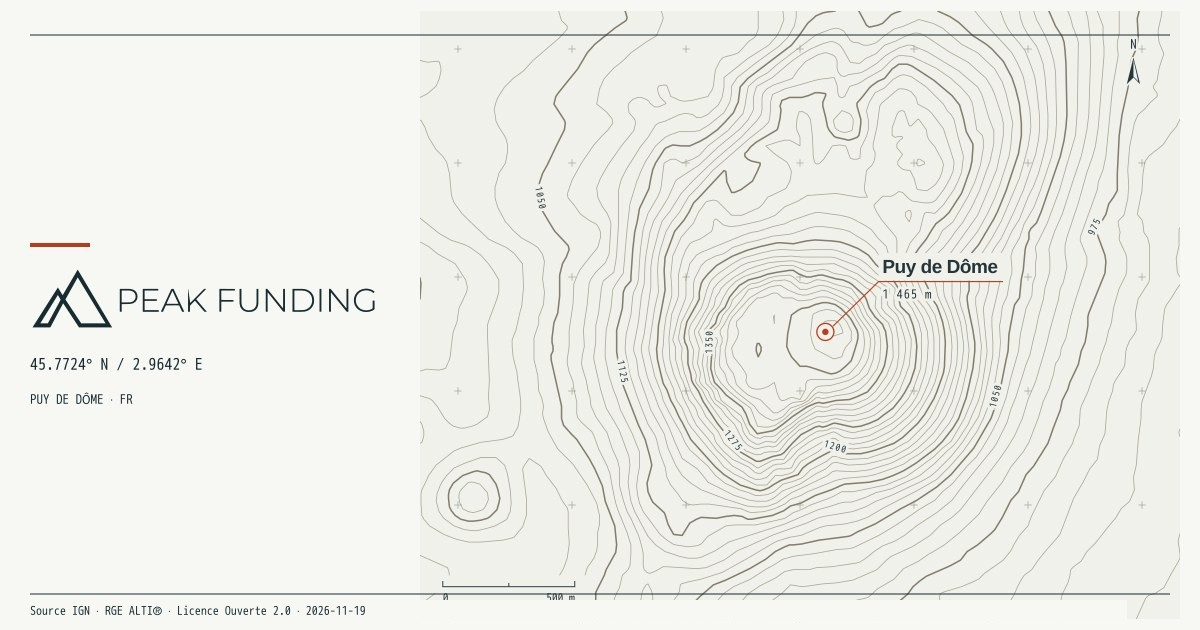
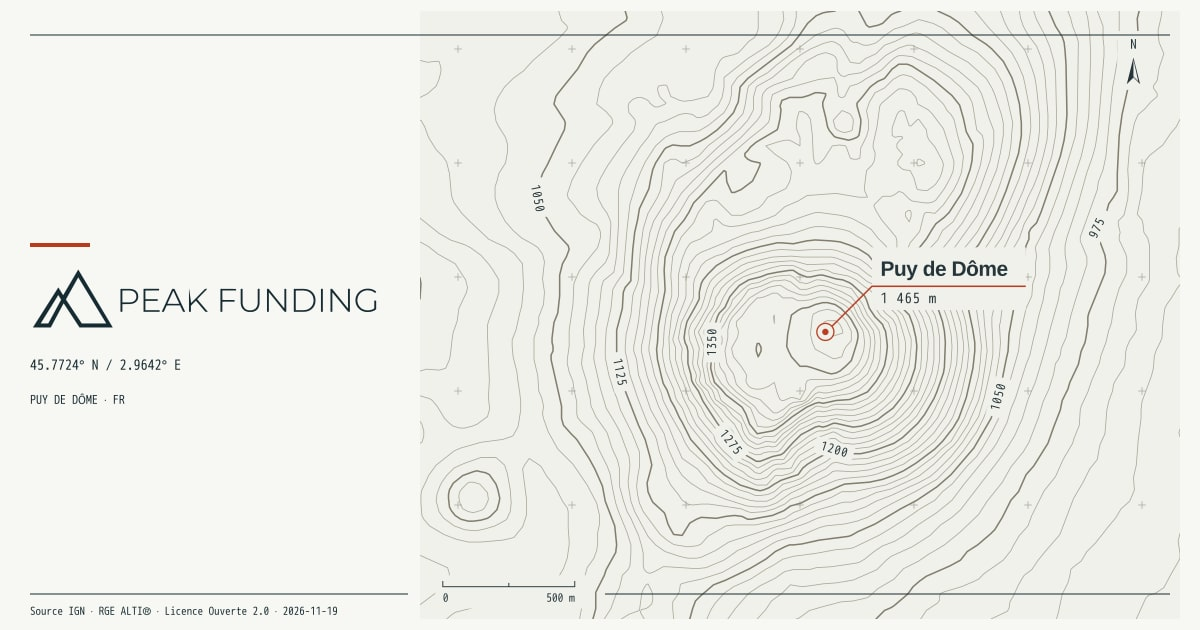
Tracer la coupe du puy de Dôme et protéger ses cartouches

diff --git a/scripts/relief/terrain.py b/scripts/relief/terrain.py
@@ -128,6 +128,41 @@ def simplify(points, tolerance=.38):
     return simplify(points[:index+1], tolerance)[:-1] + simplify(points[index:], tolerance)
 
 
+def outside_cartouches(line, boxes):
+    """Cut out label rectangles before exposing the animated path as an SVG fragment."""
+    commands = []
+    last = None
+    for (ax, ay), (bx, by) in zip(line, line[1:]):
+        dx, dy = bx - ax, by - ay
+        visible = [(0., 1.)]
+        for left, top, right, bottom in boxes:
+            lo, hi = 0., 1.
+            for origin, delta, low, high in ((ax, dx, left, right), (ay, dy, top, bottom)):
+                if delta == 0:
+                    if not low <= origin <= high:
+                        hi = -1.
+                    continue
+                t0, t1 = sorted(((low - origin) / delta, (high - origin) / delta))
+                lo, hi = max(lo, t0), min(hi, t1)
+            if hi <= lo:
+                continue
+            pieces = []
+            for first, final in visible:
+                if first < lo:
+                    pieces.append((first, min(lo, final)))
+                if final > hi:
+                    pieces.append((max(first, hi), final))
+            visible = pieces
+        for first, final in visible:
+            begin = (round(ax + first * dx, 1), round(ay + first * dy, 1))
+            end = (round(ax + final * dx, 1), round(ay + final * dy, 1))
+            if last != begin:
+                commands.append(f'M{begin[0]:g},{begin[1]:g}')
+            commands.append(f'{end[0]:g},{end[1]:g}')
+            last = end
+    return ' '.join(commands)
+
+
 def render(data):
     grid = data['z_m']
     paper = '#f0f1eb'
@@ -135,6 +170,10 @@ def render(data):
     signal = '#bb3e22'
     paths, labels = [], []
     principal = None
+    summit_x = -WEST * WIDTH / (STEP * (COLS - 1))
+    summit_y = NORTH * HEIGHT / (STEP * (ROWS - 1))
+    reserved = [(summit_x + 48, summit_y - 92, summit_x + 220, summit_y - 20),
+                (724, 14, 777, 88), (15, 585, 190, 634)]
     occupied = [(490, 304), (532, 284), (600, 270), (73, 592), (750, 65)]
     for level in range(750, 1501, INTERVAL):
         major = level % 75 == 0
@@ -147,7 +186,7 @@ def render(data):
             if line[0] == line[-1]:
                 d += 'Z'
             if level == 1200 and principal is None:
-                principal = d
+                principal = line
             paths.append(f'<path d="{d}" stroke="{("#827d6c" if major else "#aca898")}" stroke-width="{1.6 if major else .85}"/>')
             if major and len(line) > 22:
                 for i in range(len(line)//3, len(line)-2):
@@ -158,31 +197,39 @@ def render(data):
                         continue
                     angle = math.degrees(math.atan2(line[i+1][1]-line[i-1][1], line[i+1][0]-line[i-1][0]))
                     angle = (angle + 90) % 180 - 90
-                    labels.append(f'<text transform="translate({x:.1f} {y:.1f}) rotate({angle:.0f})" text-anchor="middle">{level}</text>')
+                    # Pad the animated path's cutout for these rotated, opaque cartouches.
+                    radians = math.radians(angle)
+                    rx = 25 * abs(math.cos(radians)) + 12 * abs(math.sin(radians))
+                    ry = 25 * abs(math.sin(radians)) + 12 * abs(math.cos(radians))
+                    reserved.append((x-rx, y-ry, x+rx, y+ry))
+                    labels.append(f'<g transform="translate({x:.1f} {y:.1f}) rotate({angle:.0f})">'
+                                  f'<rect x="-21" y="-9" width="42" height="18" fill="{paper}"/>'
+                                  f'<text text-anchor="middle" y="4">{level}</text></g>')
                     occupied.append((x, y))
                     break
     scale_px = 500 * WIDTH / (STEP * (COLS - 1))
-    summit_x = -WEST * WIDTH / (STEP * (COLS - 1))
-    summit_y = NORTH * HEIGHT / (STEP * (ROWS - 1))
     crosses = ''.join(f'M{x-4} {y}h8m-4 -4v8' for x in range(40,800,120) for y in range(40,640,120))
     lines = ''.join(paths)
     figures = ''.join(labels)
+    principal_path = outside_cartouches(principal, reserved)
+    contours = f'<g id="courbes-terrain" fill="none" stroke-linejoin="round" stroke-linecap="round">{lines}</g>'
     ASSET.write_text(f"""<svg xmlns="http://www.w3.org/2000/svg" viewBox="0 0 800 640">
 <title>Puy de Dôme · Chaîne des Puys</title>
 <desc>Courbes de niveau tous les 15 mètres. Source IGN, RGE ALTI®, extraction du {data['retrieved']}, Licence Ouverte 2.0. https://www.data.gouv.fr/datasets/rge-alti-r</desc>
-<defs><path id="courbe-repere" pathLength="1" d="{principal}"/></defs>
+<defs><path id="courbe-repere" pathLength="1" d="{principal_path}"/></defs>
 <rect width="800" height="640" fill="{paper}"/>
-<g fill="none" stroke-linejoin="round" stroke-linecap="round">{lines}</g>
+{contours}
 <path d="{crosses}" stroke="#858a81" stroke-width=".8" opacity=".7"/>
-<g fill="{ink}" stroke="{paper}" paint-order="stroke" stroke-width="6" font-family="monospace" font-size="10" letter-spacing="1.3">{figures}</g>
+<g fill="{ink}" font-family="monospace" font-size="13" letter-spacing="1">{figures}</g>
 <g transform="translate({summit_x:.1f} {summit_y:.1f})">
 <circle r="9" fill="{paper}" stroke="{signal}" stroke-width="1.4"/><circle r="3.4" fill="{signal}"/>
-<path d="M8 -6l48 -47h131" fill="none" stroke="{signal}" stroke-width="1.2"/>
-<rect x="56" y="-83" width="132" height="29" fill="{paper}"/>
-<text x="60" y="-62" font-family="Arial,sans-serif" font-size="20" font-weight="bold" letter-spacing="-.5" fill="{ink}">Puy de Dôme</text>
-<text x="60" y="-35" fill="{ink}" font-family="monospace" font-size="13" letter-spacing="1" stroke="{paper}" stroke-width="6" paint-order="stroke">1 465 m</text>
+<rect x="49" y="-89" width="162" height="66" fill="{paper}"/>
+<path d="M7 -6l42 -42h162" fill="none" stroke="{signal}" stroke-width="1.6"/>
+<text x="58" y="-59" font-family="Arial,sans-serif" font-size="22" font-weight="bold" letter-spacing="-.5" fill="{ink}">Puy de Dôme</text>
+<text x="58" y="-30" fill="{ink}" font-family="monospace" font-size="15" letter-spacing="1">1 465 m</text>
 </g>
-<g transform="translate(751 30)" fill="{ink}" stroke="{paper}" paint-order="stroke" stroke-width="4">
+<g transform="translate(751 30)" fill="{ink}">
+<rect x="-17" y="-9" width="34" height="62" fill="{paper}"/>
 <text x="0" y="10" text-anchor="middle" font-family="monospace" font-size="14">N</text>
 <path d="M0 19l7 28 -7 -7 -7 7z"/><path d="M0 21v18l5 5z" fill="{paper}" stroke="none"/>
 </g>

diff --git a/docs/page-blanche/relief.md b/docs/page-blanche/relief.md
@@ -11,3 +11,20 @@ Le script échantillonne 6 643 altitudes sur une grille régulière de 32 m. Il 
 Depuis la racine du dépôt, exécuter `python3 scripts/relief/terrain.py`. La bibliothèque standard Python suffit. La commande lit le cache versionné et écrit `public/cartographie/relief.svg`. Le build Astro et le navigateur servent le SVG local.
 
 L'option explicite `--fetch` renouvelle le cache auprès de la Géoplateforme en 73 requêtes successives de 91 points, espacées d'au moins 300 ms. Le script contrôle chaque ligne et remplace le cache à la fin de l'extraction. [Géoservice altimétrique IGN](https://geoservices.ign.fr/services-geoplateforme-altimetrie)
+
+## Coupe de la méthode
+
+La figure de méthode suit le parallèle de latitude 45,7724° N, du bord ouest de la feuille au repère du sommet. Le composant utilise à la compilation les 49 premières mesures de la ligne 38 (index à partir de zéro). La distance est la projection horizontale, mesurée d'ouest en est. Le graphique emploie deux échelles indépendantes pour la distance et l'altitude.
+
+| Repère | Distance | Altitude échantillonnée |
+| --- | ---: | ---: |
+| 01 | 0 m | 979,61 m |
+| 02 | 512 m | 1 051,38 m |
+| 03 | 1 024 m | 1 293,99 m |
+| 04 | 1 536 m | 1 462,64 m |
+
+La coupe prend ses valeurs dans le même cache que les isolignes. La ligne sombre, les quatre repères et leurs cotes restent visibles dans le HTML statique. Au défilement, une ligne vermillon suit le profil entre les étapes du dossier. Le mouvement réduit ou le paramètre `?statique` présente le tracé en entier.
+
+Le groupe SVG `#courbes-terrain` fournit des extraits de la même carte aux pages expertise. Le trajet `#courbe-repere` du héros interrompt ses segments à l'entrée des cartouches. Les cotes et le nom du sommet s'impriment sur le papier opaque de la carte.
+
+L’aperçu social 1 200 × 630 px reprend la carte, le cartouche du sommet, les coordonnées et le crédit. La commande `node scripts/relief/partage.mjs` le régénère après la carte.
